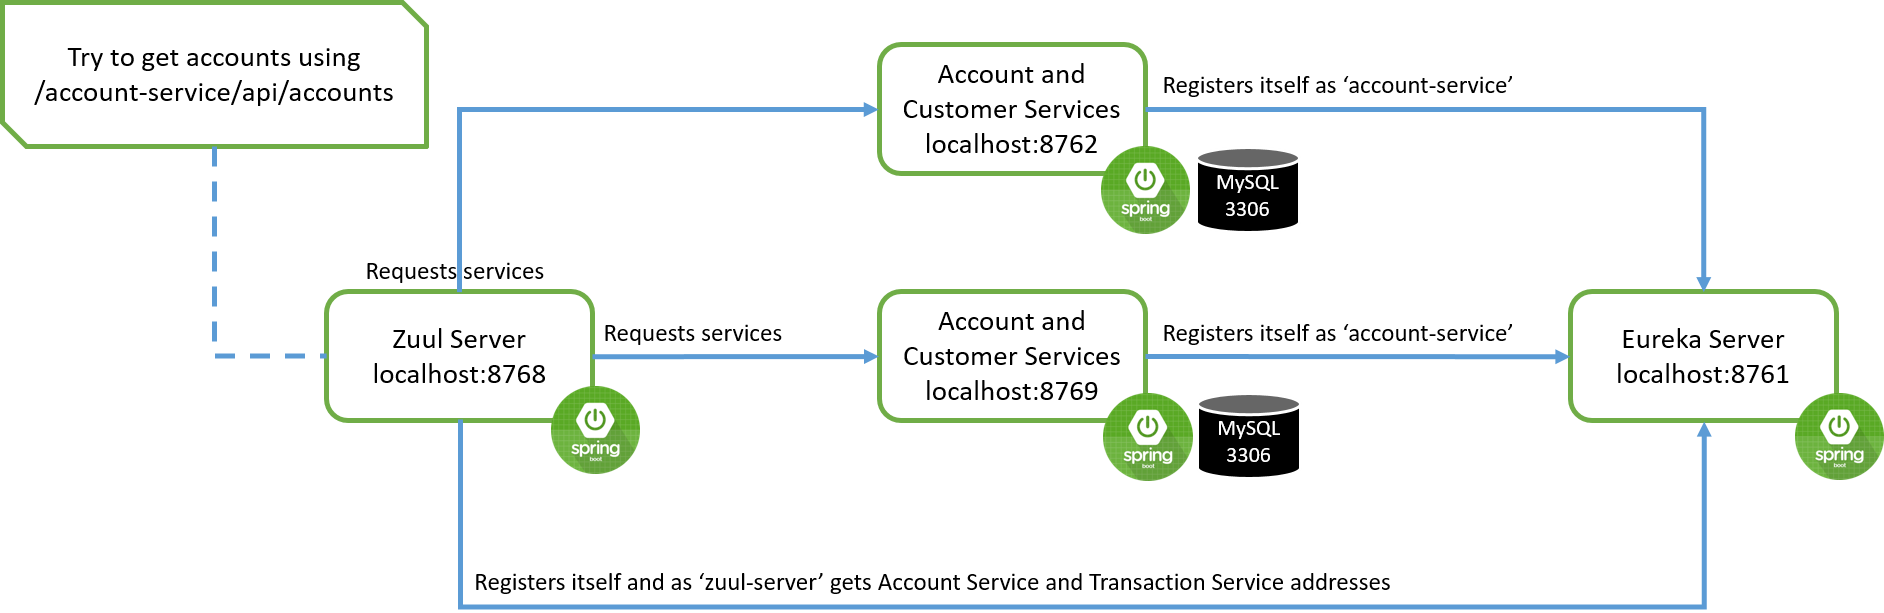
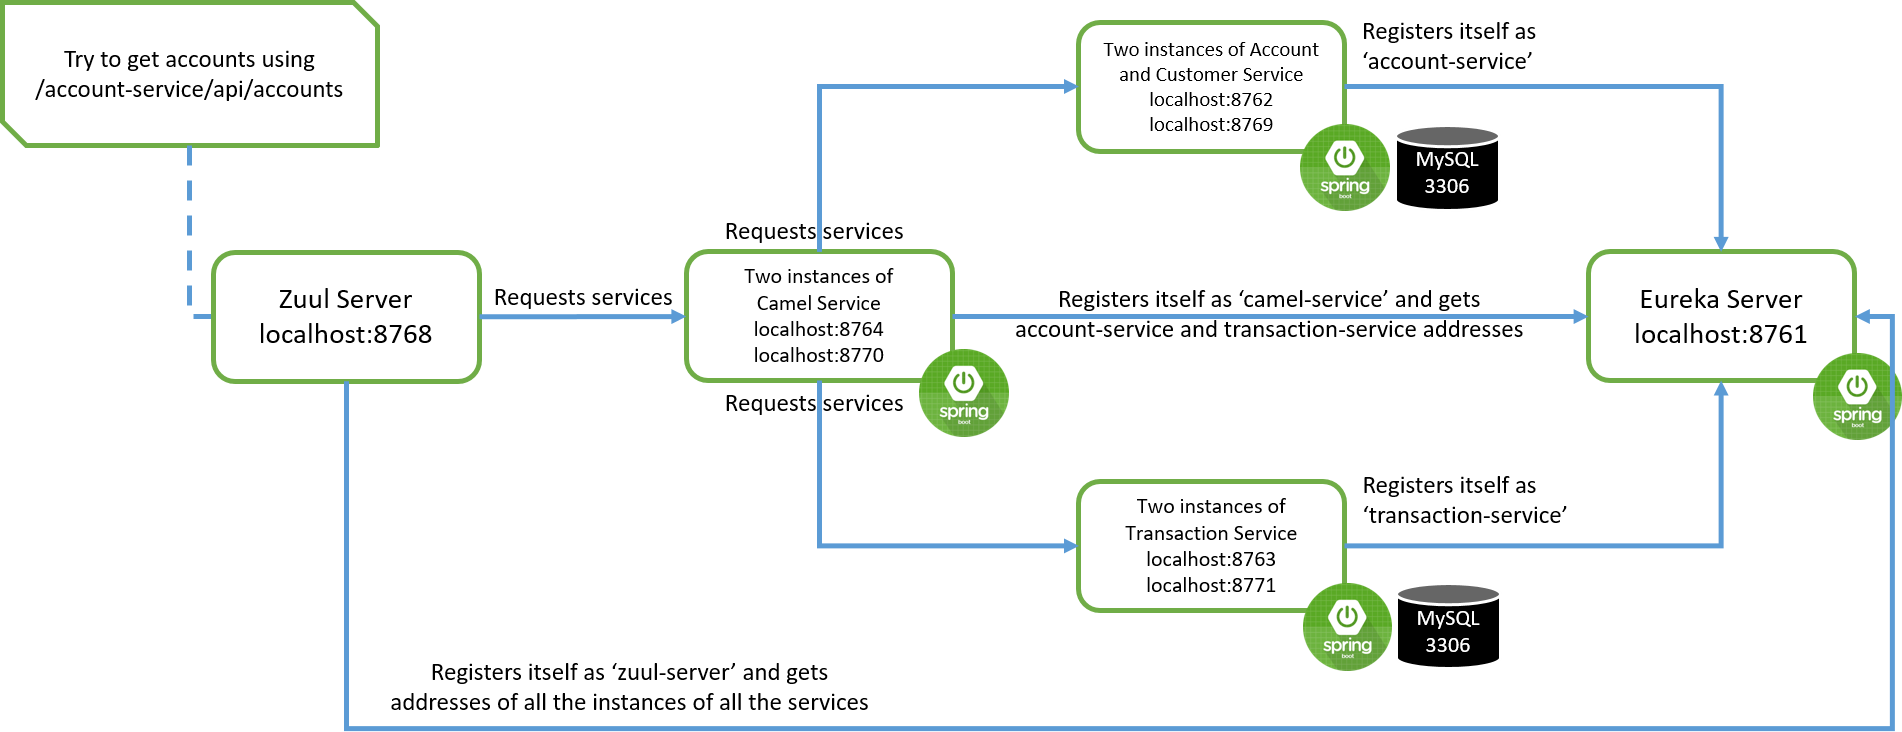
readme updated + architecture diagrams

Changed region(s): [[0.0, 0.0, 1.0, 1.0]]

diff --git a/camel-service/src/main/java/spring/boot/cloud/camelservice/CamelServiceApplication.java b/camel-service/src/main/java/spring/boot/cloud/camelservice/CamelServiceApplication.java
@@ -26,7 +26,6 @@ import java.util.concurrent.TimeUnit;
 public class CamelServiceApplication extends SpringRouteBuilder {
 
     private final String ACCOUNT_EUREKA_SERVICE_NAME = "account-service";
-    private final String CUSTOMER_EUREKA_SERVICE_NAME = "account-service";
     private final String TRANSACTION_EUREKA_SERVICE_NAME = "transaction-service";
 
     public static void main(String[] args) {
@@ -52,7 +51,32 @@ public class CamelServiceApplication extends SpringRouteBuilder {
         rest("/health").description("Camel rest service")
                 .get().description("health check")
                 .route()
-                .transform().constant("<html><head><title>Health Check From " + appName +":" + portNumber +"</title></head><body>OK</body></html>");
+                .removeHeader("CamelHttp*")
+                .removeHeader(Exchange.HTTP_PATH)
+                .removeHeader(Exchange.HTTP_URI)
+                .serviceCall(ACCOUNT_EUREKA_SERVICE_NAME + "/api/accounts/health")
+                .convertBodyTo(String.class)
+                .log("${body}")
+                .process(new Processor() {
+                    @Override
+                    public void process(Exchange exchange) throws Exception {
+                        exchange.getIn().setHeader("ahc", exchange.getIn().getBody());
+                    }
+                })
+                .removeHeader("CamelHttp*")
+                .removeHeader(Exchange.HTTP_PATH)
+                .removeHeader(Exchange.HTTP_URI)
+                .serviceCall(TRANSACTION_EUREKA_SERVICE_NAME + "/api/transactions/health")
+                .convertBodyTo(String.class)
+                .log("${body}")
+                .process(new Processor() {
+                    @Override
+                    public void process(Exchange exchange) throws Exception {
+                        exchange.getIn().setHeader("thc", exchange.getIn().getBody());
+                    }
+                })
+                .transform().simple("<html><head><title>Health Check</title></head><body>" +
+                "\nHealth Check From " + appName + ":" + portNumber + "\n${header[ahc]}\n${header[thc]}\n</body></html>");
 
 
         rest().description("Camel rest service")
@@ -145,8 +169,8 @@ public class CamelServiceApplication extends SpringRouteBuilder {
                 })
                 .log("################################ random-x is: ${header[random-x]}")
                 .choice()
-                    .when(header("random-x").isGreaterThan(100))
-                        .throwException(new RuntimeException("Random-x failure during direct:add-transaction"))
+                .when(header("random-x").isGreaterThan(100))
+                .throwException(new RuntimeException("Random-x failure during direct:add-transaction"))
                 .end()
                 .log("End of direct:add-transaction with body: ${body}");
 

diff --git a/camel-service-instance2/src/main/java/spring/boot/cloud/camelservice/CamelServiceInstance2Application.java b/camel-service-instance2/src/main/java/spring/boot/cloud/camelservice/CamelServiceInstance2Application.java
@@ -26,7 +26,6 @@ import java.util.concurrent.TimeUnit;
 public class CamelServiceInstance2Application extends SpringRouteBuilder {
 
     private final String ACCOUNT_EUREKA_SERVICE_NAME = "account-service";
-    private final String CUSTOMER_EUREKA_SERVICE_NAME = "account-service";
     private final String TRANSACTION_EUREKA_SERVICE_NAME = "transaction-service";
 
     public static void main(String[] args) {
@@ -52,7 +51,32 @@ public class CamelServiceInstance2Application extends SpringRouteBuilder {
         rest("/health").description("Camel rest service")
                 .get().description("health check")
                 .route()
-                .transform().constant("<html><head><title>Health Check From " + appName +":" + portNumber +"</title></head><body>OK</body></html>");
+                .removeHeader("CamelHttp*")
+                .removeHeader(Exchange.HTTP_PATH)
+                .removeHeader(Exchange.HTTP_URI)
+                .serviceCall(ACCOUNT_EUREKA_SERVICE_NAME + "/api/accounts/health")
+                .convertBodyTo(String.class)
+                .log("${body}")
+                .process(new Processor() {
+                    @Override
+                    public void process(Exchange exchange) throws Exception {
+                        exchange.getIn().setHeader("ahc", exchange.getIn().getBody());
+                    }
+                })
+                .removeHeader("CamelHttp*")
+                .removeHeader(Exchange.HTTP_PATH)
+                .removeHeader(Exchange.HTTP_URI)
+                .serviceCall(TRANSACTION_EUREKA_SERVICE_NAME + "/api/transactions/health")
+                .convertBodyTo(String.class)
+                .log("${body}")
+                .process(new Processor() {
+                    @Override
+                    public void process(Exchange exchange) throws Exception {
+                        exchange.getIn().setHeader("thc", exchange.getIn().getBody());
+                    }
+                })
+                .transform().simple("<html><head><title>Health Check</title></head><body>" +
+                "\nHealth Check From " + appName + ":" + portNumber + "\n${header[ahc]}\n${header[thc]}\n</body></html>");
 
 
         rest().description("Camel rest service")

diff --git a/bank-a-service/src/main/java/spring/boot/cloud/eurekaclient/controller/TransactionController.java b/bank-a-service/src/main/java/spring/boot/cloud/eurekaclient/controller/TransactionController.java
@@ -24,7 +24,7 @@ public class TransactionController {
     private String portNumber;
 
     // Health Check
-    @GetMapping("/health")
+    @GetMapping("/transactions/health")
     public ResponseEntity<String> healthCheck() {
         return ResponseEntity.ok("Health Check From " + appName + ":"  + portNumber);
     }

diff --git a/bank-b-service/src/main/java/spring/boot/cloud/eurekaclient/controller/TransactionController.java b/bank-b-service/src/main/java/spring/boot/cloud/eurekaclient/controller/TransactionController.java
@@ -24,7 +24,7 @@ public class TransactionController {
     private String portNumber;
 
     // Health Check
-    @GetMapping("/health")
+    @GetMapping("/transactions/health")
     public ResponseEntity<String> healthCheck() {
         return ResponseEntity.ok("Health Check From " + appName + ":"  + portNumber);
     }

diff --git a/transaction-service-instance2/src/main/java/spring/boot/cloud/eurekaclient/controller/TransactionController.java b/transaction-service-instance2/src/main/java/spring/boot/cloud/eurekaclient/controller/TransactionController.java
@@ -24,7 +24,7 @@ public class TransactionController {
     private String portNumber;
 
     // Health Check
-    @GetMapping("/health")
+    @GetMapping("/transactions/health")
     public ResponseEntity<String> healthCheck() {
         return ResponseEntity.ok("Health Check From " + appName + ":"  + portNumber);
     }

diff --git a/transaction-service/src/main/java/spring/boot/cloud/eurekaclient/controller/TransactionController.java b/transaction-service/src/main/java/spring/boot/cloud/eurekaclient/controller/TransactionController.java
@@ -24,7 +24,7 @@ public class TransactionController {
     private String portNumber;
 
     // Health Check
-    @GetMapping("/health")
+    @GetMapping("/transactions/health")
     public ResponseEntity<String> healthCheck() {
         return ResponseEntity.ok("Health Check From " + appName + ":"  + portNumber);
     }

diff --git a/account-service-instance2/src/main/java/spring/boot/cloud/eurekaclient/controller/CustomerController.java b/account-service-instance2/src/main/java/spring/boot/cloud/eurekaclient/controller/CustomerController.java
@@ -25,7 +25,7 @@ public class CustomerController {
     private String portNumber;
 
     // Health Check
-    @GetMapping("/health")
+    @GetMapping("/customers/health")
     public ResponseEntity<String> healthCheck() {
         return ResponseEntity.ok("Health Check From " + appName + ":"  + portNumber);
     }

diff --git a/account-service/src/main/java/spring/boot/cloud/eurekaclient/controller/CustomerController.java b/account-service/src/main/java/spring/boot/cloud/eurekaclient/controller/CustomerController.java
@@ -25,7 +25,7 @@ public class CustomerController {
     private String portNumber;
 
     // Health Check
-    @GetMapping("/health")
+    @GetMapping("/customers/health")
     public ResponseEntity<String> healthCheck() {
         return ResponseEntity.ok("Health Check From " + appName + ":"  + portNumber);
     }

diff --git a/account-service-instance2/src/main/java/spring/boot/cloud/eurekaclient/controller/AccountController.java b/account-service-instance2/src/main/java/spring/boot/cloud/eurekaclient/controller/AccountController.java
@@ -25,7 +25,7 @@ public class AccountController {
     private String portNumber;
 
     // Health Check
-    @GetMapping("/health")
+    @GetMapping("/accounts/health")
     public ResponseEntity<String> healthCheck() {
         return ResponseEntity.ok("Health Check From " + appName + ":"  + portNumber);
     }

diff --git a/account-service/src/main/java/spring/boot/cloud/eurekaclient/controller/AccountController.java b/account-service/src/main/java/spring/boot/cloud/eurekaclient/controller/AccountController.java
@@ -25,7 +25,7 @@ public class AccountController {
     private String portNumber;
 
     // Health Check
-    @GetMapping("/health")
+    @GetMapping("/accounts/health")
     public ResponseEntity<String> healthCheck() {
         return ResponseEntity.ok("Health Check From " + appName + ":"  + portNumber);
     }

diff --git a/README.md b/README.md
@@ -1,4 +1,4 @@
-# Spring Boot + Spring Data + Apache Camel (Service Composition Example)
+# Spring Boot + Spring Data + Apache Camel (Service Composition Using Saga EIP Example)
 
 This is a simple example to show you how to implement a `Saga EIP` over simple 
 services using `Apache Camel` and `Spring Cloud`
@@ -6,9 +6,8 @@ services using `Apache Camel` and `Spring Cloud`
 ## Libraries and Tools
 * [Module] [`Spring Boot`](https://spring.io/projects/spring-boot)
 * [Module] [`Spring Cloud`](https://spring.io/projects/spring-cloud)
-* [Module] `Spring Data`
-* [Library] [`Apache Camel`](https://camel.apache.org/)
-* [ORM] `Hibernate` under abstraction of `Spring Data JPA`
+* [Integration Framework] [`Apache Camel`](https://camel.apache.org/)
+* [ORM] `Hibernate` under abstraction of [`Spring Data JPA`](https://spring.io/projects/spring-data-jpa)
 * [Database] `MySQL on port 3306`
 * [Tool] [`Locust`](https://locust.io/): Tool for load test
 * [Library] [`DataFactory`](https://mvnrepository.com/artifact/org.fluttercode.datafactory/datafactory/0.8): Library for generating fake data
@@ -16,12 +15,15 @@ services using `Apache Camel` and `Spring Cloud`
 
 ## How it works
 
-Bellow is the relationships between different services provided in this demo.  
+We provided three different demos over here. 
+* Account/Transaction financial business situation demo (Im-memory Saga EIP)
+* Transaction between two different banks demo (Im-memory Saga EIP)
+* Load balancing demo (Zuul)
 
-### Transaction and Account Demo
+## Account/Transaction financial business situation demo (Im-memory Saga EIP)
 
+### Architecture
 ![Architecture](imgs/camel-cloud-saga-arch-transaction-account.png)
-
 
 This is a common and simple banking business flow. There is a simple `Customer` and `Account` service. Each customer is 
 connected to some accounts. Besides for each account, there is some number of transactions over it which is provided and
@@ -29,41 +31,20 @@ handled by `Transaction` service.
 There is also a `Camel` service which tries to implement `Saga EIP` over `Account` and `Transaction` services.
 All these services are registered in `Eureka` as the service registry and discovery framework.
 
-### Transfer from Bank A to Bank B Demo
-
-![Architecture](imgs/camel-cloud-saga-arch-transfer.png)
-
-This is another common and simple banking business flow. There is a simple `Bank-A` and `Bank-B` service. Each bank
-has a repository of transactions. We are trying to exemplify a simple transaction between banks model using `Saga EIP`. 
-There is another `Camel` service which tries to implement `Saga EIP` over `Bank-A` and `Bank-B` services.
-All these services are registered in `Eureka` as the service registry and discovery framework.
-
-## How to run
-### Transaction and Account Demo
+### How to run
 * Start `eureka-server` module. It can be verified using url [http://localhost:8761/](http://localhost:8761/).
-* Start `account-service` module. It can be verified using url [http://localhost:8762/accounts](http://localhost:8762/accounts).
-* Start `transaction-service` module. It can be verified using url [http://localhost:8763/transactions](http://localhost:8763/transactions).
+* Start `account-service` module. It can be verified using url [http://localhost:8762/api/accounts/health](http://localhost:8762/api/accounts/health).
+* Start `transaction-service` module. It can be verified using url [http://localhost:8763/api/transactions/health](http://localhost:8763/api/transactions/health).
 * Start `camel-service` module. It can be verified using url [http://localhost:8764/health](http://localhost:8764/health).
 
 Now your services are up and you can send transactions as `JSON` type with `Http.POST` method to 
 [http://localhost:8764/make-transaction](http://localhost:8764/make-transaction) url.
 Or, you can simply do the load test explained bellow.
 
-### Transfer from Bank A to Bank B Demo
-* Start `eureka-server` module. It can be verified using url [http://localhost:8761/](http://localhost:8761/).
-* Start `bank-a-service` module. It can be verified using url [http://localhost:8765/transactions](http://localhost:8765/transactions).
-* Start `bank-b-service` module. It can be verified using url [http://localhost:8766/transactions](http://localhost:8766/transactions).
-* Start `camel-transfer-service` module. It can be verified using url [http://localhost:8767/health](http://localhost:8767/health).
-
-Now your services are up and you can send transactions as `JSON` type with `Http.POST` method to 
-[http://localhost:8767/transfer](http://localhost:8767/transfer) url.
-Or, you can simply do the load test explained bellow.
-
-## Load Test
+### Load test
 You should have `Python` and `Locust` installed on your system to do the load test part. To do the load test
 simply run the following through the terminal in project root path:
 
-### Transaction and Account Demo
 ```
 cd \path\to\project\spring-boot-cloud-camel-composite-service 
 \path\to\locust\locust.exe -f load-test\locustfile.py
@@ -73,7 +54,30 @@ This starts the locust on  [http://localhost:8089](http://localhost:8089/)
 You can set number of users and catch size and then start the test
 It sends a lot of `Http.POST` requests to `http://localhost:8764/make-transactions`
 
-### Transfer from Bank A to Bank B Demo
+## Transaction between two different banks demo (Im-memory Saga EIP)
+
+### Architecture
+![Architecture](imgs/camel-cloud-saga-arch-transfer.png)
+
+This is another common and simple banking business flow. There is a simple `Bank-A` and `Bank-B` service. Each bank
+has a repository of transactions. We are trying to exemplify a simple transaction between banks model using `Saga EIP`. 
+There is another `Camel` service which tries to implement `Saga EIP` over `Bank-A` and `Bank-B` services.
+All these services are registered in `Eureka` as the service registry and discovery framework.
+
+### How to run
+* Start `eureka-server` module. It can be verified using url [http://localhost:8761/](http://localhost:8761/).
+* Start `bank-a-service` module. It can be verified using url [http://localhost:8765/transactions](http://localhost:8765/transactions).
+* Start `bank-b-service` module. It can be verified using url [http://localhost:8766/transactions](http://localhost:8766/transactions).
+* Start `camel-transfer-service` module. It can be verified using url [http://localhost:8767/health](http://localhost:8767/health).
+
+Now your services are up and you can send transactions as `JSON` type with `Http.POST` method to 
+[http://localhost:8767/transfer](http://localhost:8767/transfer) url.
+Or, you can simply do the load test explained bellow.
+
+### Load Test
+You should have `Python` and `Locust` installed on your system to do the load test part. To do the load test
+simply run the following through the terminal in project root path:
+
 ```
 cd \path\to\project\spring-boot-cloud-camel-composite-service 
 \path\to\locust\locust.exe -f load-test\locustfile-transfer.py
@@ -83,17 +87,22 @@ This starts the locust on  [http://localhost:8089](http://localhost:8089/)
 You can set number of users and catch size and then start the test
 It sends a lot of `Http.POST` requests to `http://localhost:8767/transfer`
 
-## Load Balancing Using Zuul
+## Load balancing demo (Zuul)
+
+### Architecture
 Zuul, among many other things, fetches from Eureka service locations and does server-side load balancing.
 In order to test it, we add another instance for `account-service` named `account-service-instance2`.
 This service has the same name as the `account-service` when he wants to register itself on `Eureka`.
-
 ![Architecture](imgs/camel-cloud-saga-arch-zuul.png)
 
-To test it:
+### How to run
 * Start `eureka-server` module. It can be verified using url [http://localhost:8761/](http://localhost:8761/).
-* Start `account-service` module. It can be verified using url [http://localhost:8762/accounts](http://localhost:8762/accounts).
-* Start `account-service-instance2` module. It can be verified using url [http://localhost:8769/accounts](http://localhost:8769/accounts).
+* Start `account-service` module. It can be verified using url [http://localhost:8762/api/accounts/health](http://localhost:8762/api/accounts/health).
+* Start `transaction-service` module. It can be verified using url [http://localhost:8763/api/transactions/health](http://localhost:8763/api/transactions/health).
+* Start `camel-service` module. It can be verified using url [http://localhost:8764/health](http://localhost:8764/health).
+* [Optional] Start `account-service-instance2` module. It can be verified using url [http://localhost:8769/api/accounts/health](http://localhost:8769/api/accounts/health).
+* [Optional] Start `transaction-service-instance2` module. It can be verified using url [http://localhost:8771/api/transactions/health](http://localhost:8771/api/transactions/health).
+* [Optional] Start `camel-service-instance2` module. It can be verified using url [http://localhost:8769/health](http://localhost:8769/health).
 * Start `zuul-server` module. It can be verified using url [http://localhost:8768/actuator/info](http://localhost:8768/actuator/info).
 
 When Zuul receives a request, it picks up one of the physical locations available and forwards requests to the actual 
@@ -101,7 +110,6 @@ service instance. The whole process of caching the location of the service insta
 the actual location is provided out of the box with no additional configurations needed.
 
 Internally, Zuul uses Netflix Ribbon to look up for all instances of the service from the service discovery (Eureka Server).
-
 
 Now you can receive accounts information through [http://localhost:8768/account-service/api/accounts](http://localhost:8768/account-service/api/accounts).
 The request received by Zuul is forwarded to different instances of `account-service` in a round robin fashion.
